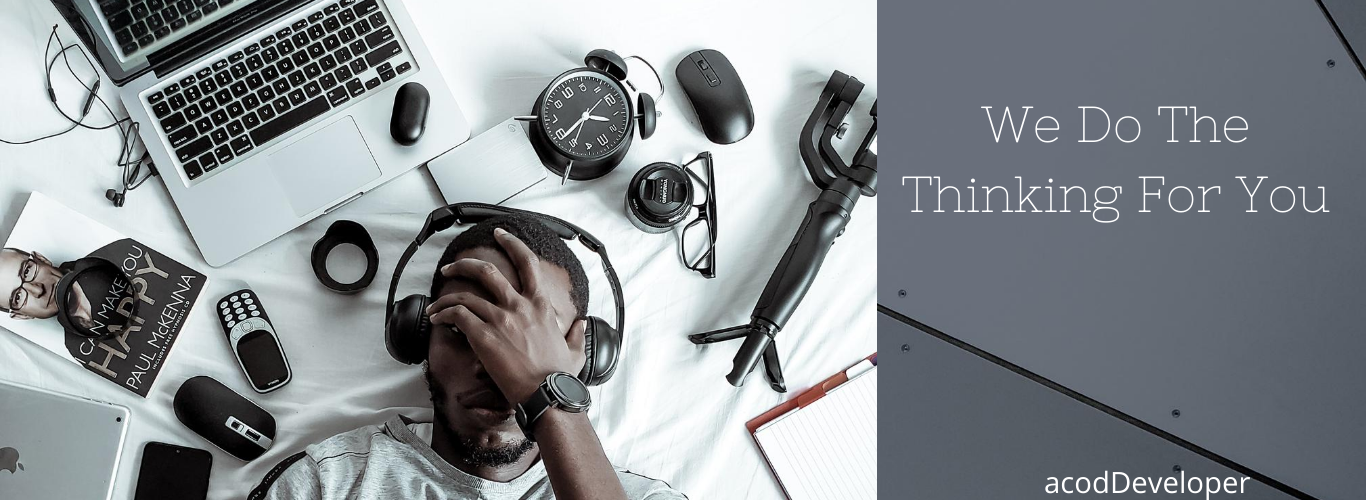
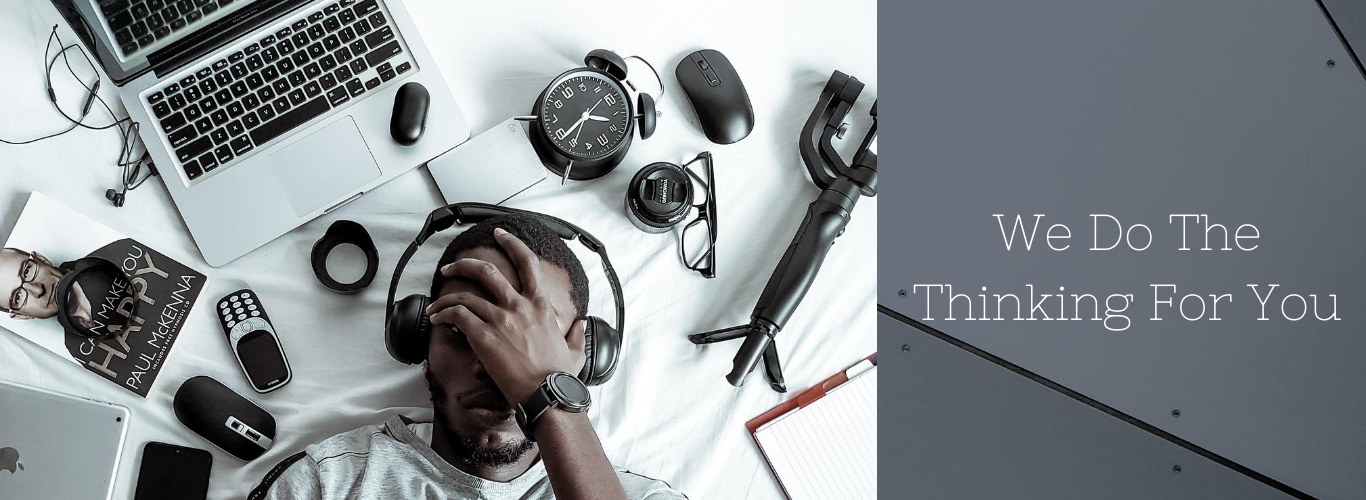
i styled about page

diff --git a/index.html b/index.html
@@ -4,9 +4,13 @@
 <head>
     <meta charset="UTF-8">
     <meta name="viewport" content="width=device-width, initial-scale=1.0">
-    <title>acodDevelopers</title>
+    <title>Home - acodDevelopers</title>
     <link rel="stylesheet" href="css/style.css">
     <link href="https://fonts.googleapis.com/css2?family=Recursive:wght@300;400&display=swap" rel="stylesheet">
+    <link href="https://fonts.googleapis.com/css2?family=Pacifico&display=swap" rel="stylesheet">
+    <link href="https://fonts.googleapis.com/css2?family=Montserrat&display=swap" rel="stylesheet">
+
+
 </head>
 
 <body>
@@ -16,7 +20,7 @@
             <div class="fixed-header">
                 <div id="menu">
                     <nav>
-                        <h2> Acod-Dev </h2>
+                        <h2> acodDevelopers </h2>
                         <ul>
                             <li><a href="index.html">Home</a></li>
                             <li><a href="about.html">About</a></li>
@@ -37,6 +41,14 @@
             </div>  
             <div id="services">   
             <div class="content">
+                <h3>E-Commerce Solution</h3>
+                <p> are the product and services that help a company conduct business
+                    electronically.
+                    The range of available e-commerce solution is vast, including those that allow traditional
+                    businesses design,
+                    create, and operate world wide website. Some solution focus on a specific problem. </p>
+            </div>
+            <div class="content">
                 <h3>Content Development and Management</h3>
                 <p> If you want to build a dynamic engaging website,
                     you need to produce fresh and relevant content regularly. This is always been a critical
@@ -44,14 +56,6 @@
                     quality and engagement. Therefore, organization that seek to expand their presence across multiple
                     media channels need to be able to produce adequate volumes of such content in order to improve their
                     visibility, as well as credibility.</p>
-            </div>
-            <div class="content">
-                <h3>E-Commerce Solution</h3>
-                <p> are the product and services that help a company conduct business
-                    electronically.
-                    The range of available e-commerce solution is vast, including those that allow traditional
-                    businesses design,
-                    create, and operate world wide website. Some solution focus on a specific problem. </p>
             </div>
             <div class="content">
                 <h3>Custom Software Development</h3>
@@ -66,9 +70,9 @@
         <!-- Testimonials Area -->
         <section>
             <div class="testies">
-                <h2>TESTIMONIALS</h2>
+                <h2 class="underline">TESTIMONIALS</h2>
                 <!-- testimonial entry one -->
-                <div class="client">
+                <div class="client" id="box1">
                     <div class="clientpic">
                         <img src="images/clientpic2.jpg" alt="client-one-marko">
                     </div>
@@ -81,7 +85,7 @@
                 </div>
                 <!-- end of testimonial entry one -->
                 <!-- testimonial entry two -->
-                <div class="client">
+                <div class="client" id="box2">
                     <div class="clientpic">
                         <img src="images/clientpic3.jpg" alt="client-two-nemanja">
                     </div>
@@ -94,14 +98,12 @@
                 </div>
                 <!-- end of testimonial entry two -->
                 <!-- testimonial entry three -->
-                <div class="client">
+                <div class="client" id="box3">
                     <div class="clientpic">
                         <img src="images/clientpic1.jpg" alt="client-three-anita">
                     </div>
                     <div class="clienttext">
-                        <p>acodDevelopers has delivered outstanding results month on month. Without the work that
-                            acodDevelopers provides, we would not be in business. Their team is always there to help,
-                            and provide prompt responses. We would recommend them!</p>
+                        <p>acodDevelopers has delivered outstanding results month on month. Without the work that acodDevelopers provides, we would not be in business. Their team is always there to help, and provide prompt responses. We would recommend them!</p>
                         <p><b>Anita Weller</b> - Owner, MissArsara.com.au</p>
                     </div>
                 </div>
@@ -112,8 +114,8 @@
     </div>
         <section>
             <div id="ourclient">
-                <h2>OUR CLIENT</h2>
-                </div>
+                <h2 class="underline">OUR CLIENT</h2>
+
                 <div class="Clientlogo">
                     <img src="images/agremo.jpeg" alt="fisrt client">
                 </div>
@@ -133,10 +135,12 @@
                     <img src="images/gtlogo.jpg" alt="Sixth client">
                 </div>
             </div>
-            <div id="copywrite">
-                <p>copyright @ 2020 acodDevelopers</p>
-            </div>
         </section>
+        <footer>
+            <div id="copywrite">
+                <p>copyright © 2020 acodDevelopers [Group-One]</p>
+            </div>
+        </footer>
 
 
 </body>

diff --git a/about.html b/about.html
@@ -1,48 +1,71 @@
 <!DOCTYPE html>
 <html lang="en">
+
 <head>
     <meta charset="UTF-8">
-    <meta name="viewport" content="width=
-    , initial-scale=1.0">
-    <title> ABOUT US </title>
+    <meta name="viewport" content="width=device-width, initial-scale=1.0">
+    <title>About - acodDevelopers</title>
+    <link rel="stylesheet" href="css/style.css">
+    <link href="https://fonts.googleapis.com/css2?family=Recursive:wght@300;400&display=swap" rel="stylesheet">
+    <link href="https://fonts.googleapis.com/css2?family=Pacifico&display=swap" rel="stylesheet">
+    <link href="https://fonts.googleapis.com/css2?family=Montserrat&display=swap" rel="stylesheet">
+
+
 </head>
+
 <body>
-    <section>
-        <div id="container">
-            <div id="banner">
-                <img src="images/about us.jpeg" alt="banner">
+    <!--********************* Creating Nav Bar & Banner Section ********************-->
+    <div id="container">
+        <section>
+            <div class="fixed-header">
+                <div id="menu">
+                    <nav>
+                        <h2> acodDevelopers </h2>
+                        <ul>
+                            <li><a href="index.html">Home</a></li>
+                            <li><a href="about.html">About</a></li>
+                            <li><a href="gallery.html">Gallery</a></li>
+                            <li><a href="contact.html">Contact</a></li>
+                        </ul>
+                    </nav>
+                </div>
             </div>
-    </section>
-        <div id="aboutus">
-            <h2>ABOUT US</h2>
-        </div>
-        <div id="para">
-            <p>Acoddevelopers are a group of resilient committed to bringing to birth the thought 
-               process of our clients by transforming and mobilizing your businesses, getting the
-               wagon of sure success with top notch expertisee working endlessly to see your project
-               as a success
-            </p>
-        </div>
-        <div id="vision">
-            <h2>VISION</h2>
-        </div>
-        <div id="para">
-            <p>Our aim is to be the best developing firm in the sphere of software development through hard work, customer preference, innovation and consistency.
-            </p>
-        </div>
-        <div id="mission">
-            <h2>MISSION</h2>
-        </div>
-        <div id="para">
-            <p>To leave an imprint of quality product at the top of the heart of our clients by standing to our bond our word our competence our legacy of being the best at what we do by the results that speaks quality and dependency.
-            </p>
-        </div>
-        
-            </section>
-
-        </div>
-
-    </section>
-    
+            <div id="banner">
+                <img src="images/about us.jpeg" alt="acodDeveloper Abous Us Page Banner">
+            </div>
+        </section>
+        <section id="about-section">
+            <div id="aboutus">
+                <h2 class="underline">ABOUT US</h2>
+            <div id="about-text">
+                <p>Acod-Developers are a group of resilient committed to bringing to birth the thought 
+                   process of our clients by transforming and mobilizing your businesses, getting the
+                   wagon of sure success with top notch expertisee working endlessly to see your project
+                   as a success
+                </p>
+            </div>
+            </div>
+            <div id="vision">
+                <h2 class="underline">VISION</h2>
+            </div>
+            <div id="vision-text">
+                <p>Our aim is to be the best developing firm in the sphere of software development through hard work, customer preference, innovation and consistency.
+                </p>
+            </div>
+            <div id="mission">
+                <h2 class="underline">MISSION</h2>
+            </div>
+            <div id="mission-text">
+                <p>To leave an imprint of quality product at the top of the heart of our clients by standing to our bond our word our competence our legacy of being the best at what we do by the results that speaks quality and dependency.
+                </p>
+            </div> 
+        </section>
+    </div>
+        <footer>
+            <div id="copywrite">
+                <p>copyright © 2020 acodDevelopers [Group-One]</p>
+            </div>
+        </footer>
 </body>
+
 </html>

diff --git a/css/style.css b/css/style.css
@@ -37,7 +37,9 @@ body {
 
 #menu nav h2 {
     color: #f05d23;
-    width: 20%
+    width: 20%;
+    font-family: 'Pacifico', cursive;
+    margin-left: 20px;
 }
 
 #menu nav ul {
@@ -53,12 +55,13 @@ body {
     text-decoration: none;
     padding-right: 50px;
     color: inherit;
-    font-family: 'Recursive', sans-serif;
+    font-family: 'Montserrat', sans-serif;
 }
 
 #menu nav ul li a:hover {
    text-decoration: underline;
    font-size: 13px;
+   color: #f05d23;
 }
 
 /************ Our  services ***********/
@@ -82,6 +85,7 @@ body {
     background: #f7f7f7;
     padding: 20px;
     line-height:1.5rem ;
+    font-family: 'Montserrat', sans-serif;
 }
 
 #services .content h3 {
@@ -89,15 +93,22 @@ body {
 }
 
 /********** Testimonial *************/
+
+.testies {
+    text-align: center;
+    background: #f7f7f7;
+    justify-content: space-between;
+}
 .client{
     display: flex;
+
 }
 
 .clientpic img{
     width: 150px;
     height: 150px;
     border-radius: 50%;
-    border: dashed 2px blueviolet;
+    border: dashed 1px #f05d23;
     padding: 4px;
     box-shadow: 0 4px 8px 0 rgba(0, 0, 0, 0.2);
     margin-right: 20px;
@@ -118,29 +129,69 @@ body {
     margin: 20px;
 }
 
-/* #menu nav ul li {
- subzero
-    border: 1px solid blue;
-    display: inline-flex;  
-=======
-    display: inline-flex;
-    padding: 5px; */
-    /* creating style for scetion i created  */
-#ourclient{
-    margin-left: 20px;
-}
 .Clientlogo img{
     margin: 20px;
     width: 300px;
     height: 300px;
+}
+#box1 {
+    width: 500px;
+    float: left;
+    margin-left: 50px;
+    text-align: left;
+    padding-top: 20px;
+    font-family: 'Montserrat', sans-serif;
+    
+}
+#box2 {
+    width: 500px;
+    float: right;
+    margin-right: 50px;
+    text-align: left;
+    padding-top: 20px;
+    font-family: 'Montserrat', sans-serif;
+}
+#box3 {
+    width: 500px;
+    margin-left: 450px;
+    text-align: left;
+    padding-bottom: 20px;
+    font-family: 'Montserrat', sans-serif;
+}
 
-    }
+/****** Our Client ********/
+
+#ourclient {
+    text-align: center;
+    background: #f7f7f7;
+
+}
+
+.Clientlogo {
+    display: inline-flex;
+    margin-top: 20px;
+}
+
+.Clientlogo img {
+    border-radius: 20px; 
+}
+
+footer {
+    text-align: center;
+    padding-top: 20px;
+    background: #333333;
+    color: white;
+    font-family: 'Montserrat', sans-serif;
+    font-size: 12px;
+}
+
 
 
     /* underline */
     .underline {
         text-decoration: none; 
         position: relative; 
+        font-family: 'Montserrat', sans-serif;
       }   
  
      .underline:after {
@@ -168,4 +219,27 @@ body {
          -moz-transition:.5s;
          -webkit-transition:.5s;
          transition:.5s;
+     }
+
+     /****** About Us Page *******/
+
+     #about-section {
+         text-align: center;
+         font-family: 'Montserrat', sans-serif;
+         background: #f7f7f7;
+        }
+     
+     #aboutus {
+         margin: 25px;
+     }
+
+     #about-text {
+         margin: 20px;
+     }
+     #vision-text {
+         margin: 25px;
+     }
+     #mission-text {
+         margin: 25px;
+         padding-bottom: 15px;
      }
